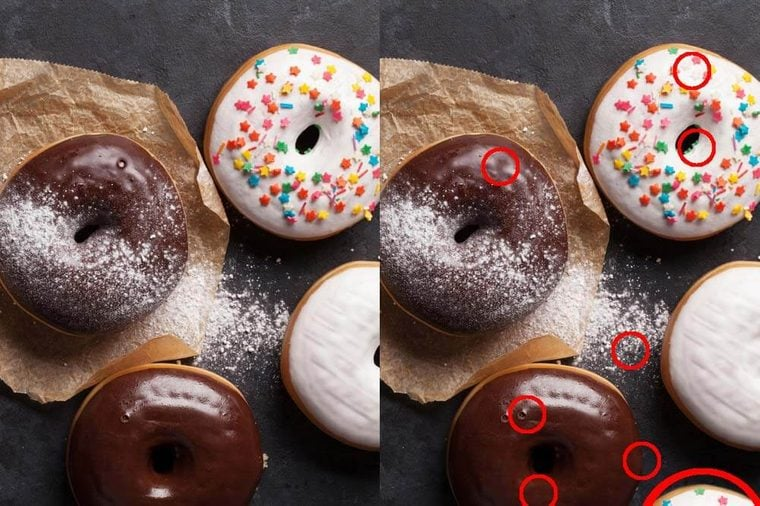
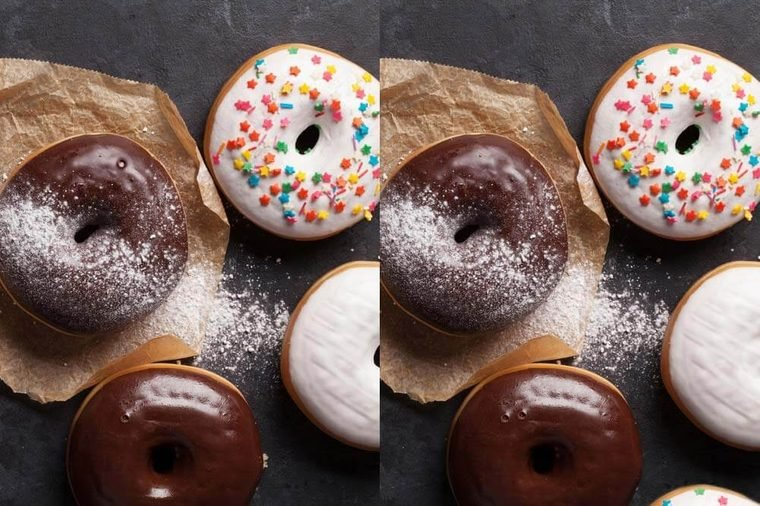
美女找茬核心逻辑完成

diff --git a/beauty_game/main.py b/beauty_game/main.py
@@ -1,4 +1,5 @@
 import pygame
+from settings import LEVELS_INFO
 
 SIZE = WIDTH, HEIGHT = 760 + 20, 506 + 94
 
@@ -6,38 +7,73 @@ pygame.init()
 pygame.display.set_caption("美女找茬")
 screen = pygame.display.set_mode(SIZE)
 clock = pygame.time.Clock()
-
-image_one = pygame.image.load("images/image_1.jpg").convert()
-rect_left = pygame.rect.Rect(0, 0, image_one.get_width()//2, image_one.get_height())
-left_image = image_one.subsurface(rect_left)
-
-rect_right = pygame.rect.Rect(
-    image_one.get_width()//2,
-    0,
-    image_one.get_width()//2,
-    image_one.get_height()
-)
-right_image = image_one.subsurface(rect_right)
-
 FONT = pygame.font.Font("msyh.ttf", 50)
-tip_text = FONT.render("Spot 5 differences", True, "blue")
-tip_text_rect = tip_text.get_rect(center=(screen.get_width()//2, 506 + 50))
 
-DIFFS = [
+current_level = 1
+spots = []      # 保存当前等级所有需要标记的区域
+found_spots = []  # 保存找到的不同区域
 
-]
+
+def draw_image_by_no(image_id: int):
+    image_one = pygame.image.load(f"images/image_{image_id}.jpg").convert()
+    rect_left = pygame.rect.Rect(0, 0, image_one.get_width()//2, image_one.get_height())
+    left_image = image_one.subsurface(rect_left)
+
+    rect_right = pygame.rect.Rect(
+        image_one.get_width()//2,
+        0,
+        image_one.get_width()//2,
+        image_one.get_height()
+    )
+    right_image = image_one.subsurface(rect_right)
+
+    screen.blit(left_image, left_image.get_rect(topleft=(0, 0)))
+    screen.blit(right_image, right_image.get_rect(topleft=(image_one.get_width() // 2 + 20, 0)))
+
+
+def draw_tip_text(count: int):
+    tip_text = FONT.render(f"Spot {count} differences", True, "blue")
+    tip_text_rect = tip_text.get_rect(center=(screen.get_width() // 2, 506 + 50))
+    screen.blit(tip_text, tip_text_rect)
+
+
+def init_spots_by_level(level: int):
+    global spots, found_spots
+    spots.clear()
+    found_spots.clear()
+    for key, value in LEVELS_INFO.get(level).items():
+        spots.append(
+            (pygame.rect.Rect(*key), pygame.rect.Rect(*value))
+        )
+
+
+init_spots_by_level(current_level)
 
 while True:
+    spot_counts = len(spots)
     for event in pygame.event.get():
         if event.type == pygame.QUIT:
             pygame.quit()
             quit()
+        if event.type == pygame.MOUSEBUTTONUP and event.button == 1:
+            pos = pygame.mouse.get_pos()
+            for r1, r2 in spots:
+                if r1.collidepoint(*pos) or r2.collidepoint(*pos):
+                    found_spots.extend([r1, r2])
+                    break
 
     screen.fill("white")
-    screen.blit(left_image, left_image.get_rect(topleft=(0, 0)))
-    screen.blit(right_image, right_image.get_rect(topleft=(image_one.get_width()//2 + 20, 0)))
+    draw_image_by_no(current_level)
+    draw_tip_text(spot_counts)
+    # 标识找到的区域
+    for rect in found_spots:
+        pygame.draw.rect(screen, "red", rect, 2, border_radius=2)
 
-    screen.blit(tip_text, tip_text_rect)
+    # 判断是否完成该阶段的所有任务
+    if len(found_spots) == spot_counts * 2:
+        print("success")
+        current_level += 1  # todo: 直接跳转到下一等级会太突然，需要让用户选择是否进入下一等级
+        init_spots_by_level(current_level)
 
     pygame.display.flip()
     clock.tick(20)

diff --git a/beauty_game/settings.py b/beauty_game/settings.py
@@ -1,0 +1,11 @@
+# 所有找茬图片的不同区域的配置信息
+
+LEVELS_INFO = {
+    1: {
+        (100, 100, 100, 100): (500, 100, 100, 100),     # (left, top, width, height)
+        (100, 300, 50, 50): (500, 300, 50, 50),
+    },
+    2: {
+        (100, 100, 100, 100): (500, 100, 100, 100),
+    }
+}
